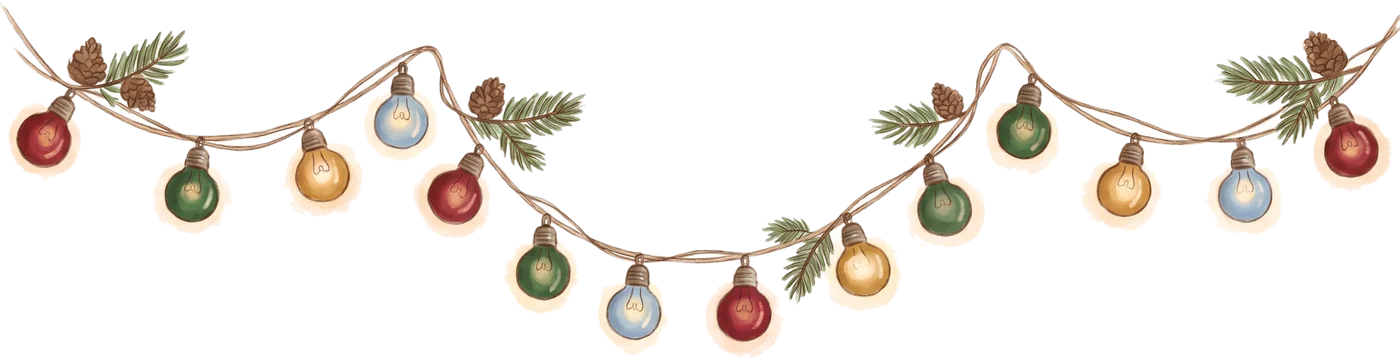
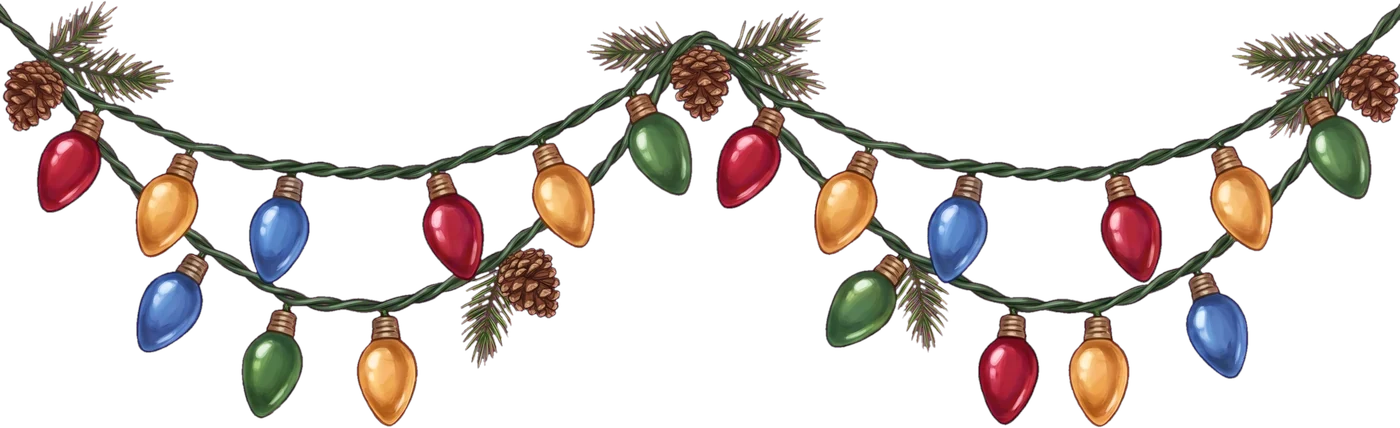
Lights without white halos; table game becomes drag-and-drop (WIP: stage art pending)
- Lights redrawn on a magenta key and cut out cleanly, no white halos
- Table step 1: drag (or tap) items onto the table, which changes stage
  by stage; stage images art/table/t1-t5 are still being generated

Claude-Session: https://claude.ai/code/session_016HTeTL1HdhdTLdUQNXXCi3

diff --git a/kaka/index.html b/kaka/index.html
@@ -208,6 +208,21 @@ canvas{display:block;width:100%;border-radius:12px;background:linear-gradient(#f
 .rules li span{font-weight:700;width:1em;flex:none}
 .rules li.ok{background:#e3f1e2}.rules li.ok span{color:var(--green)}
 .rules li.bad{background:#fbe1dd}.rules li.bad span{color:var(--red)}
+.tlay{display:grid;grid-template-columns:1fr 170px;gap:14px;align-items:center}
+@media (max-width:640px){.tlay{grid-template-columns:1fr}}
+.tdrop{position:relative;aspect-ratio:1100/604;border-radius:16px;background:radial-gradient(ellipse at 50% 60%,#fff8ea,#f1e2c4);border:3px dashed transparent;transition:border-color .2s,transform .2s}
+.tdrop.over{border-color:var(--gold);background:radial-gradient(ellipse at 50% 60%,#fffbe8,#f6e6b8)}
+.tdrop.pop{transform:scale(1.02)}
+.tdrop .tst{position:absolute;inset:4%;width:92%;height:92%;object-fit:contain}
+.tdrop .tnext{opacity:0;transition:opacity .6s}.tdrop .tnext.show{opacity:1}
+.tdrop .thint{position:absolute;left:50%;bottom:6px;transform:translateX(-50%);font-size:13px;opacity:.5;pointer-events:none}
+.ttray{display:flex;flex-direction:column;gap:10px}
+@media (max-width:640px){.ttray{flex-direction:row;flex-wrap:wrap;justify-content:center}}
+.titem{display:flex;align-items:center;gap:.5em;border:0;background:#fff;border-radius:14px;padding:.55em .9em;font-size:clamp(15px,1.9vw,18px);box-shadow:0 3px 0 #d9c7a5;cursor:grab;touch-action:none;user-select:none}
+.titem .ti{font-size:1.4em}
+.titem.sel{box-shadow:0 0 0 3px var(--gold),0 3px 0 #d9c7a5}
+.titem.lifted{opacity:.35}
+.titem.ghost{position:fixed;z-index:100;pointer-events:none;transform:translate(-50%,-50%) rotate(-4deg) scale(1.08);box-shadow:0 10px 24px rgba(0,0,0,.3);opacity:.95}
 .tablepic{display:block;width:min(520px,90%);margin:0 auto}
 #treeSvg{width:min(340px,75%);display:block;margin:0 auto}
 .bb{cursor:pointer;transition:filter .15s}
@@ -548,21 +563,44 @@ dishes(card,win){
 // 4. set the table: lay it in the right order, then solve the Wigilia seating plan
 table(card,win){
   card.append(el('<h2>🍽 Nakrywamy do stołu</h2>'));
-  const pic=el('<img class="tablepic" src="art/table_empty.webp" alt="Stół">');
-  const sub=el('<p class="sub">Krok 1 z 2: co kładziemy najpierw? Wybieraj po kolei — od samego dołu.</p>'), stack=el('<div class="stack"></div>'), ch=el('<div class="choices"></div>'), msg=el('<div class="msg">&nbsp;</div>');
-  card.append(pic,sub,stack,ch,msg);
-  const ORDER=[['Sianko','🌾'],['Obrus','🤍'],['Opłatek','✨'],['Talerze','🍽'],['Świeca','🕯']];
-  const HINT={Sianko:'Sianko idzie pod obrus!',Obrus:'Obrus przykrywa sianko.',Opłatek:'Opłatek kładziemy na obrusie.',Talerze:'Talerze — zaraz po opłatku.',Świeca:'Świeca na koniec, dla nastroju.'};
-  let step=0, timers=[];
+  const sub=el('<p class="sub">Krok 1 z 2: przeciągnij rzeczy na stół we właściwej kolejności — od samego dołu. (Albo dotknij rzeczy, a potem stołu.)</p>');
+  const lay=el('<div class="tlay"><div class="tdrop" aria-label="Stół"><img class="tst" src="art/table_empty.webp" alt=""><img class="tst tnext" alt=""><span class="thint">upuść tutaj</span></div><div class="ttray" role="list"></div></div>');
+  const msg=el('<div class="msg">&nbsp;</div>');
+  card.append(sub,lay,msg);
+  const drop=lay.querySelector('.tdrop'), tray=lay.querySelector('.ttray'), cur=lay.querySelector('.tst'), nxt=lay.querySelector('.tnext');
+  const ORDER=[['Sianko','🌾','art/table/t1_hay.webp'],['Obrus','🤍','art/table/t2_cloth.webp'],['Opłatek','✨','art/table/t3_wafer.webp'],['Talerze','🍽','art/table/t4_plates.webp'],['Świeca','🕯','art/table/t5_candle.webp']];
+  ORDER.forEach(o=>loadImg(o[2]));
+  const HINT={Sianko:'Najpierw sianko — kładziemy je na gołym stole.',Obrus:'Teraz obrus — przykrywa sianko.',Opłatek:'Opłatek kładziemy na obrusie, na środku.',Talerze:'Talerze — i jeden więcej dla niespodziewanego gościa!',Świeca:'Na koniec świeca, dla nastroju.'};
+  let step=0, timers=[], picked=null;
+  function place(name,elm){
+    if(step>=ORDER.length) return;
+    if(name!==ORDER[step][0]){ elm.classList.add('shake'); setTimeout(()=>elm.classList.remove('shake'),400); msg.style.color='var(--red)'; msg.textContent='Hmm, jeszcze nie. '+HINT[ORDER[step][0]]; return; }
+    const src=ORDER[step][2]; step++; elm.remove(); picked=null;
+    nxt.src=src; nxt.classList.add('show'); timers.push(setTimeout(()=>{ cur.src=src; nxt.classList.remove('show'); },650));
+    drop.classList.add('pop'); setTimeout(()=>drop.classList.remove('pop'),400);
+    msg.style.color='var(--green)'; msg.textContent=['Pięknie!','Tak jest!','Właśnie tak!','Cudnie!','Gotowe!'][step-1];
+    if(step===ORDER.length){ msg.textContent='Stół nakryty! Teraz najtrudniejsze — kto gdzie siedzi…'; timers.push(setTimeout(seating,1600)); }
+  }
   shuffle(ORDER.slice()).forEach(([n,e])=>{
-    const b=el(`<button class="chip">${e} ${n}</button>`);
-    b.onclick=()=>{ if(n===ORDER[step][0]){ step++; b.remove(); stack.append(el(`<span>${e} ${n}</span>`)); msg.style.color='var(--green)'; msg.textContent='Tak!';
-        if(step===ORDER.length){ msg.textContent='Stół nakryty! Teraz najtrudniejsze — kto gdzie siedzi…'; timers.push(setTimeout(seating,1300)); } }
-      else { b.classList.add('shake'); setTimeout(()=>b.classList.remove('shake'),400); msg.style.color='var(--red)'; msg.textContent='Hmm, nie teraz. '+HINT[ORDER[step][0]]; } };
-    ch.append(b);
+    const it=el(`<button class="titem" role="listitem"><span class="ti">${e}</span>${n}</button>`); tray.append(it); it.dataset.name=n;
+    // tap → select, then tap the table
+    it.addEventListener('click',()=>{ if(it.dataset.dragged){ delete it.dataset.dragged; return; } tray.querySelectorAll('.titem').forEach(x=>x.classList.remove('sel')); picked=picked===it?null:it; if(picked) it.classList.add('sel'); });
+    // drag (mouse or finger)
+    it.addEventListener('pointerdown',e=>{
+      const sx=e.clientX, sy=e.clientY; let ghost=null;
+      const move=ev=>{ if(!ghost && Math.hypot(ev.clientX-sx,ev.clientY-sy)<8) return;
+        if(!ghost){ ghost=it.cloneNode(true); ghost.classList.add('ghost'); document.body.append(ghost); it.classList.add('lifted'); }
+        ghost.style.left=ev.clientX+'px'; ghost.style.top=ev.clientY+'px';
+        const r=drop.getBoundingClientRect(); drop.classList.toggle('over',ev.clientX>r.left&&ev.clientX<r.right&&ev.clientY>r.top&&ev.clientY<r.bottom); };
+      const up=ev=>{ removeEventListener('pointermove',move); removeEventListener('pointerup',up); removeEventListener('pointercancel',up);
+        if(!ghost) return; ghost.remove(); it.classList.remove('lifted'); it.dataset.dragged='1';
+        const over=drop.classList.contains('over'); drop.classList.remove('over'); if(over) place(n,it); };
+      addEventListener('pointermove',move); addEventListener('pointerup',up); addEventListener('pointercancel',up);
+    });
   });
+  drop.addEventListener('click',()=>{ if(picked) place(picked.dataset.name,picked); });
   function seating(){
-    pic.remove(); stack.remove(); ch.remove(); msg.innerHTML='&nbsp;';
+    lay.remove(); msg.innerHTML='&nbsp;';
     sub.textContent='Krok 2 z 2: rozsadź gości przy wigilijnym stole. Dotknij osoby, potem miejsca. Spełnij wszystkie życzenia rodziny!';
     const G={kaka:['Kaka','face-kaka'],kaczor:['Kaczor','face-kaczor'],mikolaj:['Mikołaj','face-mikolaj'],jugo:['Jugo','face-jugo'],gay:['Gayzilla','face-gayzilla'],inez:['Inez','face-inez'],kochanek:['kochanek Inez','face-q']};
     const SEATS={t1:[28,13],t2:[50,13],t3:[72,13],R:[92,50],b2:[64,87],b1:[36,87],L:[8,50]};
